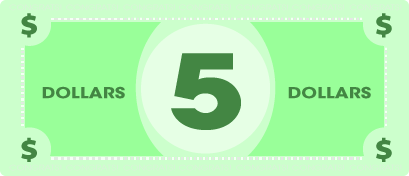
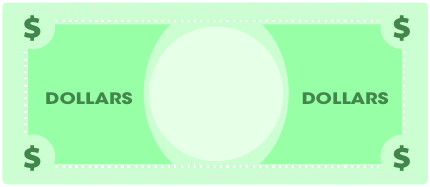
animation smoothier

diff --git a/ask_offer.js b/ask_offer.js
@@ -80,7 +80,6 @@ function submit() {
 	 	sliding_down();
      	start_fireworks();
      	setTimeout(unblock, 5000);
-		// unblock();
 	} else {
 		document.getElementsByName('valueInput')[0].value = "";
 		document.getElementsByName('valueInput')[0].focus();		
@@ -173,22 +172,22 @@ function sliding_down() {
 	var body_width = document.body.clientWidth;
 	var body_height = document.body.clientHeight;
 	var info_height = document.getElementById('info').clientHeight;
-	var bill_x = 0.5 * parseInt(body_width - title_width) + 56; 
+	var bill_x = 0.5 * parseInt(body_width - title_width) + 41; 
 	var bill_y = 0.5 * parseInt(body_height - info_height) + title_height + 20;
-	
-	console.log("title_width: ", title_width, " title_height: ", title_height);
-	console.log("body_width: ", body_width, " body_height: ", body_height);
-	console.log("bill_x: ", bill_x, " bill_y: ", bill_y);
-	var bill = document.createElement('div');
-	bill.innerHTML = "<img src='ask_offer_bill.png' style='position: absolute; left: " + bill_x + "px; top: " + bill_y + "px; z-index: -20; width: 400px;' />";
-	console.log("new bill: ", bill.innerHTML);
+	var amount_x = bill_x + 165;
+	var amount_y = bill_y + 75;
 
+	var bill = document.createElement('div');
+	bill.innerHTML = "<img src='ask_offer_bill.png' style='position: absolute; left: " + bill_x + "px; top: " + bill_y + "px; z-index: -20; width: 430px;' />";
+
+	var amount = document.createElement('div');
+	amount.innerHTML = "<p style='margin: 0px; font-size: 30pt; color: black; position: absolute; left: " + amount_x + "px; top: " + amount_y + "px; z-index: -10;'>" + get_today_offer(document.getElementsByClassName('url')[0].innerHTML).toFixed(2) + "</p>";
 	info.appendChild(bill);
+	info.appendChild(amount);
 	
 	// sliding ask down
 	var ask = document.getElementById('ask');
 	ask.style.marginTop = '5px';
-	console.log(parseInt(ask.style.marginTop));
 	setInterval(function() {ask.style.marginTop = parseInt(ask.style.marginTop) + 1 + "px";}, 20);
 	
 }

diff --git a/countdown.html b/countdown.html
@@ -11,12 +11,13 @@
    contribution!" -->
 
    <body>
-		<center>
-			 <p>The study paid you $<span id='our_offer'>00.00</span> to buy your access to <a id="url"></a>!</p>
+		<div id='shaded'></div>
+		<div id='info'>
+			 <p>CONGRAT! TODAY'S AWARD IS $<span id='our_offer'>00.00</span> !</p>
 
-			 <img src="lock_brightest.png" id="lock_pic" />
+			 <img src="ask_offer_bill.png" id="lock_pic" />
 
-			 <p>You will regain access in:</p>
+			 <p><a id="url"></a> will be unblocked in:</p>
 			 <div id="remaining_time">
 				<span id="remaining_hours"></span>:<span id="remaining_minutes"></span>:<span id="remaining_seconds"></span>
 			 </div>
@@ -24,7 +25,7 @@
 
 			 <!--<p>(Perhaps we want to say something about "this is today's
 			 random purchase offer for all eople in the study"?)</p>-->
-		</center>
+		</div>
 		<input id="reset_data" value="reset utilitracker" type="submit" />
    </body>
 </html>

diff --git a/countdown.css b/countdown.css
@@ -1,13 +1,33 @@
 body {
 	background-color: #3d3d3d;
-	margin: 30px;
 	font-family: helvetica, arial;
 	color: #fff;
 	font-size: 31px;
+	margin: 0px;
+	padding: 0px; 
+}
+
+#shaded {
+	padding: 0px;
+	margin: 0px;
+	z-index: 10;
+	position: absolute;
+	width: 100%;
+	height: 100%;
+	background-color: black;
+	opacity: 0.90;
+	z-index: -100;
+}
+
+#info {
+	text-align: center;
+	padding-top: 50px;
+	width: 60%;
+	margin-left: auto;
+	margin-right: auto;
 }
 
 a { color: #fff; }
-p { width: 600px; }
 
 #lock_pic {
 	margin-top: -20px;

diff --git a/countdown.js b/countdown.js
@@ -28,6 +28,13 @@ function onload() {
 
     document.getElementById('our_offer').innerHTML = get_today_offer(url).toFixed(2);
     document.getElementById('reset_data').onclick = clear_data;
+
+    var url_name = get_hostname(url).split('.');
+    if(url_name[1] != "com")
+    	document.body.style.background = "url(background/" + url_name[1] + ".png)"
+    else
+    	document.body.style.background = "url(background/" + url_name[0] + ".png)"
+
     
     // add listener skip the countdown page (for sneaky experts like us)
     /*

diff --git a/firework.js b/firework.js
@@ -3,7 +3,6 @@ var firework_timer;
 function start_fireworks() {
  function fireworks(){
    new firework();
-   new firework();
   }
   firework_timer = setInterval(fireworks,400);	
 }
